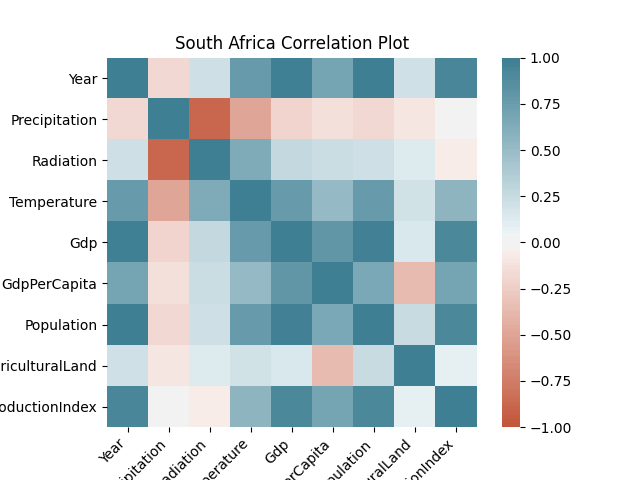
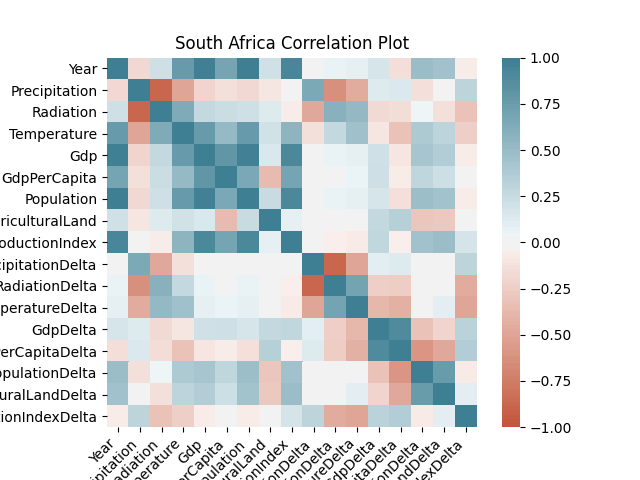
Add first difference columns and add a toggle to show figures or not

diff --git a/Code/Main.py b/Code/Main.py
@@ -9,6 +9,7 @@ import seaborn as sn
 ### Global settings
 exportPlots = True
 exportFolder = "./Outputs/Figures/"
+showFigures = False
 
 # Setup
 os.makedirs(exportFolder, exist_ok=True)
@@ -31,13 +32,20 @@ def CleanData(data):
     #fix missing data and convert to correct data type
     data['AgriculturalLand']= data['AgriculturalLand'].replace('..', np.nan)
     data['CropProductionIndex']= data['CropProductionIndex'].replace('..', np.nan) 
-    data['AgriculturalLand'] = pd.to_numeric(data['AgriculturalLand'])#, downcast="float")
-    data['CropProductionIndex'] = pd.to_numeric(data['CropProductionIndex'])#, downcast="float")
+    data['AgriculturalLand'] = pd.to_numeric(data['AgriculturalLand'])
+    data['CropProductionIndex'] = pd.to_numeric(data['CropProductionIndex'])
     print(data.dtypes)
+
+## Data transformation functions
+def AddFirstDifferencesColumns(data):
+    dataFirstDifferences = data.diff()
+    dataFirstDifferences.drop('Year', axis=1, inplace=True)
+    dataFirstDifferences.columns = dataFirstDifferences.columns + 'Delta'
+    return pd.concat([data, dataFirstDifferences], axis=1)
 
 ## Graph functions
 # Creates a correlation plot of all columns in dataframe
-def CreateCorrPlot(data, title, export=False, exportFolder=''):
+def CreateCorrPlot(data, title, showFigure=True, export=False, exportFolder=''):
     corr = data.corr()
     ax = sn.heatmap(
         corr, 
@@ -52,26 +60,32 @@ def CreateCorrPlot(data, title, export=False, exportFolder=''):
     )
     plt.title(title)
     plt.savefig(exportFolder + 'Q1_' + title + '.png')
-    plt.show()
+    if showFigure:
+        plt.show()
+    else:
+        plt.clf()
 
 # Creates a simple x y plot
-def CreatePlot(x, y, xLabel, yLabel, title, export=False, exportFolder=''):
+def CreatePlot(x, y, xLabel, yLabel, title, showFigure=True, export=False, exportFolder=''):
     plt.plot(x, y)
     plt.xlabel(xLabel)
     plt.ylabel(yLabel)
     plt.title(title)
     plt.savefig(exportFolder + 'Q1_' + title + '.png')
-    plt.show()
+    if showFigure:
+        plt.show()
+    else:
+        plt.clf()
 
 # Creates a plot for each column in a dataframe (except country, year) with the column 'Year' as the x-axis
-def CreatePlots(data, country, columnDescription, export=False, exportFolder=''):
+def CreatePlots(data, country, columnDescription, showFigures=True, export=False, exportFolder=''):
     for column in data.columns:
         if column not in ['Country', 'Year']:
             if column in columnDescriptions:
                 columnDescription = columnDescriptions[column]
             else:
                 columnDescription = column
-            CreatePlot(data['Year'], data[column], 'Year', columnDescription, country + ' - ' + column, export, exportFolder)
+            CreatePlot(data['Year'], data[column], 'Year', columnDescription, country + ' - ' + column, showFigures, export, exportFolder)
 
 ## START OF CODE
 # Clean data
@@ -80,7 +94,7 @@ CleanData(data)
 #Create outputs per country
 for country in data['Country'].unique():
     dataCountry = data[data['Country'] == country].drop('Country', axis=1)
-
+    dataCountry = AddFirstDifferencesColumns(dataCountry)
     #Create outputs
-    CreateCorrPlot(dataCountry, country + ' Correlation Plot', exportPlots, exportFolder)
-    CreatePlots(dataCountry, country, columnDescriptions, exportPlots, exportFolder)
+    CreateCorrPlot(dataCountry, country + ' Correlation Plot', showFigures, exportPlots, exportFolder)
+    CreatePlots(dataCountry, country, columnDescriptions, showFigures, exportPlots, exportFolder)
